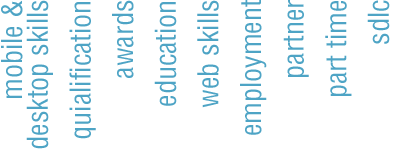
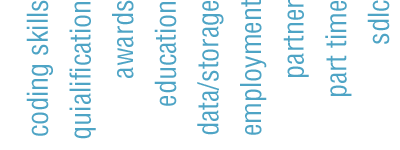
Update Website and Analytics

Changed region(s): [[0.48, 0.0, 0.57, 0.9067], [0.0, 0.16, 0.15, 1.0], [0.0, 0.0, 0.06, 0.1067]]

diff --git a/index.html b/index.html
@@ -1,10 +1,9 @@
-
 <!DOCTYPE html>
 <html>
 <head>
-    <meta charset="utf-8" />
+    <meta charset="utf-8">
     <title>Reza Qorbani - Personal Website</title>
-    <link rel="stylesheet" type="text/css" href="css/app.css">
+    <link rel="stylesheet" type="text/css" href="css/app.css?ver=2.0.0">
 </head>
 <body>
     <div>
@@ -38,19 +37,18 @@
                 <div><a title="Qualification"></a></div>
                 <div>
                     <p>
-                        Professional software developer and solution 
-                        designer in managing full software life-cycle
-                        with more than 10 years experience.
+                        More than a decade of engineering experience in developing 
+                        Mobile App, SaaS and PaaS solutions for multiple software companies.
                     </p>
                     <p>
-                        Well-developed communication & organization
-                        skills / Successfull and experienced working 
-                        in team environment as well as independently.
+                        Well-developed communication &amp; organization
+                        skills / Successful and experienced managing 
+                        engineering team and apply scrum processes.
                     </p>
                     <p>
-                        Proficiency in enterprise .Net-based projects 
-                        Excellent decision-making, analytical and 
-                        problem-solving Skills.
+                        Extensive experience in architecting, designing and developing 
+                        enterprise-grade software solutions for web, desktop, and mobile 
+                        with scalability and user experience in mind.
                     </p>
                 </div>
             </section>
@@ -59,11 +57,11 @@
                 <div>
                     <div>Good Average Skilled</div>
                     <ul>
-                        <li>Agile / Scrum           <span class="s6"></span></li>
-                        <li>UI / UX Architecure     <span class="s6"></span></li>
-                        <li>SOA + EDA               <span class="s5"></span></li>
-                        <li>CVCS: TFS               <span class="s6"></span></li>
-                        <li>DVCS: Git / Mercurial   <span class="s5"></span></li>
+                        <li>Scrum / Kanban          <span class="s6"></span></li>
+                        <li>Atlassian Suite         <span class="s6"></span></li>
+                        <li>DVCS: Git / Mercurial   <span class="s6"></span></li>
+                        <li>CVCS: TFS               <span class="s5"></span></li>
+                        <li>Cloud: AWS / Google     <span class="s6"></span></li>
                     </ul>
                 </div>
             </section>
@@ -78,19 +76,19 @@
                     <p><span>1993</span>Awarded for Telephone Program in Kharazmi</p>
                 </div>
             </section>
-            <section id="native">
-                <div><a title="native"></a></div>
+            <section id="coding">
+                <div><a title="coding"></a></div>
                 <div>
                     <div>Good Average Skilled</div>
                     <ul>
-                        <li>C# / WPF / Win Form     <span class="s6"></span></li>
-                        <li>Silverlight / RIA / WP7 <span class="s6"></span></li>
+                        <li>JavaScript / Node.JS    <span class="s6"></span></li>
+                        <li>HTML5 / CSS3 / SPA      <span class="s6"></span></li>
+                        <li>Go / Lua / Bash         <span class="s5"></span></li>
+                        <li>Cordova / Ionic         <span class="s5"></span></li>
+                        <li>Angular / Knockout      <span class="s6"></span></li>
+                        <li>Swift / Android         <span class="s4"></span></li>
+                        <li>C# / WPF / Silverlight  <span class="s6"></span></li>
                         <li>WF / WCF / Web API      <span class="s5"></span></li>
-                        <li>LINQ / EF / PLINQO      <span class="s6"></span></li>
-                        <li>SQL Server / SSDT       <span class="s5"></span></li>
-                        <li>.Net CF / CE            <span class="s6"></span></li>
-                        <li>Threading / TPL         <span class="s4"></span></li>
-                        <li>PhoneGap / Mono         <span class="s4"></span></li>
                     </ul>
                 </div>
             </section>
@@ -100,67 +98,75 @@
                     <h4>1999 - 2003</h4>
                     <h3>Computer Software Engineer</h3><p>Bachelor of Science</p>
                     <p>
-                        Dept. Of Computer Enginierring<br />
+                        Dept. Of Computer Engineering<br>
                         Sheikh Bahayie University, Iran
                     </p>
                     <h6>Thesis Title:</h6><p>Virtual Scientific Group Website<span>Oct. 2003</span></p>
                 </div>
             </section>
-            <section id="web">
-                <div><a title="web"></a></div>
+            <section id="data">
+                <div><a title="data"></a></div>
                 <div>
                     <div>Good Average Skilled</div>
                     <ul>
-                        <li>HTML5 / CSS3            <span class="s6"></span></li>
-                        <li>JavaScript / NodeJS     <span class="s5"></span></li>
-                        <li>jQuery: UI / Mobile     <span class="s5"></span></li>
-                        <li>ASP.Net Web Forms       <span class="s6"></span></li>
-                        <li>ASP.Net MVC / Razor     <span class="s4"></span></li>
-                        <li>PHP / MySQL / WP        <span class="s3"></span></li>
+                        <li>Hadoop / Hive / Spark   <span class="s4"></span></li>
+                        <li>Couchbase / Redis       <span class="s6"></span></li>
+                        <li>Aerospike / MongoDB     <span class="s5"></span></li>
+                        <li>SQL Server / MySQL      <span class="s5"></span></li>
+                        <li>SQLite / LevelDB        <span class="s5"></span></li>
+                        <li>Graphite / InfluxDB     <span class="s4"></span></li>
                     </ul>
                 </div>
             </section>
         </article>
-        
         <article id="viewHistory" data-bind="iToggle: 'History'" class="InActive">
             <section id="employment">
                 <div><a title="Employment"></a></div>
                 <div>
                     <ul>
                         <li>
+                            <h4>2013 - <span>Present</span></h4>
+                            <h2>VP of Engineering<span>BlueCava, Inc.</span></h2>
+                            <p>
+                                Managing Core, Data, and QA engineering teams  <br>
+                                Enhance architecture to billions of impressions/day<br>
+                                Build Realtime Bidding infrastructure at US scale<br> 
+                            </p>
+                        </li>
+                        <li>
                             <h4>2011 - 2013</h4>
                             <h2>QA Lead Manager<span>MindFireInc</span></h2>
                             <p>
-                                Automated Build, Deployment and Versioning <br />
-                                Develop Automated Testing Markup Language <br />
-                                Test Visual Designer / UI/UX Design Consultation <br /> 
+                                Build, Deployment and Release Management <br>
+                                Develop Automated Testing Markup Language <br>
+                                Test Visual Designer / UI/UX Design Consultation <br> 
                             </p>
                         </li>
                         <li>
                             <h4>2007 - 2011</h4>
                             <h2>Sr. Software Engineer<span>Tele Express Business Sys., Inc.</span></h2>
                             <p>
-                                Telephony Integration with CRM and ERP Systems <br />
-                                Design and Develop Intractive Voice Response <br />
-                                Custom Integration with IP-Based Cameras <br />
+                                Telephony Integration with CRM and ERP Systems <br>
+                                Design and Develop Interactive Voice Response <br>
+                                Custom Integration with IP-Based Cameras <br>
                             </p>
                         </li>
                         <li>
                             <h4>2005 - 2007</h4>
                             <h2>R&amp;D Manager<span>Namaad Iran</span></h2>
                             <p>
-                                Research and Develop new features for company's <br />
-                                Main product line such as Visual Report Designer, <br />
-                                Telephony Integration and 3rd Party components <br />
+                                Research and Develop new features for company's <br>
+                                Main product line such as Visual Report Designer, <br>
+                                Telephony Integration and 3rd Party components <br>
                             </p>
                         </li>
                         <li>
                             <h4>2003 - 2005</h4>
                             <h2>Project Manager<span>CarrieX FZCO</span></h2>
                             <p>
-                                Design and Develop CarrieCall VoIP Soft-Phone <br />
-                                Rate Comparison Tool for Carrier's Usage Rates <br />
-                                Website Design and Manage Hostings <br />
+                                Design and Develop CarrieCall VoIP Soft-Phone <br>
+                                Rate Comparison Tool for Carrier's Usage Rates <br>
+                                Website Design and Manage Hosting <br>
                             </p>
                         </li>
                     </ul>
@@ -171,21 +177,30 @@
                 <div>
                     <ul>
                         <li>
+                            <h4>2012 - <span>Present</span></h4>
+                            <h2>Co-Founder / CTO<span>Who Is Who, Inc.</span></h2>
+                            <p>
+                                Enterprise listing for medical professionals <br>
+                                Scheduling platform and patient management <br>
+                                Cloud infrastructure with Mobile App development <br>
+                            </p>
+                        </li>
+                        <li>
                             <h4>2005 - <span>Present</span></h4>
                             <h2>Owner / Sole Partnership<span>IT Originator</span></h2>
                             <p>
-                                Custom Programing for Compact Handheld Devices <br />
-                                Mobile Web and Native App Development for <br />
-                                Windows Phone, iPhone, and Android <br />
+                                Custom Programing for Compact Handheld Devices <br>
+                                Mobile Web and Native App Development for <br>
+                                Windows Phone, iPhone, and Android <br>
                             </p>
                         </li>
                         <li>
                             <h4>2009 - 2011</h4>
                             <h2>Chief Technology Officer<span>IQ Blend, Inc.</span></h2>
                             <p>
-                                Mobile & Web-based Patient Management System <br />
-                                Implement Secure RDP Connection for Doctors <br />
-                                Develop Web-based Portal for Sales Management <br />
+                                Mobile &amp; Web-based Patient Management System <br>
+                                Implement Secure RDP Connection for Doctors <br>
+                                Develop Web-based Portal for Sales Management <br>
                             </p>
                         </li>
                     </ul>
@@ -196,38 +211,38 @@
                 <div>
                     <ul>
                         <li>
-                            <h4>2009 - 2013</h4>
+                            <h4>2009 - <span>Present</span></h4>
                             <h2>Chief Technology Officer<span>Orglow, Inc.</span></h2>
                             <p>
-                                Design, Architect and Develop <br />
-                                Document Management System (SaaS) <br />
-                                Managing Team of outsourced developers <br />
+                                Design, Architect and Develop <br>
+                                Document Management System (SaaS) <br>
+                                Managing Team of outsourced developers <br>
                             </p>
                         </li>
                         <li>
                             <h4>2008 - 2010</h4>
                             <h2>Software Consultant<span>Innovation Solutions, Inc.</span></h2>
                             <p>
-                                FatJam Music File Collaboration Client Application <br />
-                                Everest ERP integration with Yahoo and Amazon <br />
-                                Software design and development consulting <br />
+                                FatJam Music File Collaboration Client Application <br>
+                                Everest ERP integration with Yahoo and Amazon <br>
+                                Software design and development consulting <br>
                             </p>
                         </li>
                         <li>
                             <h4>2000 - 2003</h4>
                             <h2>Software Engineer<span>Sima Computer</span></h2>
                             <p>
-                                Extending Microsoft Windows Language for Farsi <br />
-                                Develop Utility for Tweaking Windows Settings <br />
-                                Custom Application Development <br />
+                                Extending Microsoft Windows Language for Farsi <br>
+                                Develop Utility for Tweaking Windows Settings <br>
+                                Custom Application Development <br>
                             </p>
                         </li>
                         <li>
                             <h4>1995 - 1999</h4>
                             <h2>Software Engineer<span>Array Computer</span></h2>
                             <p>
-                                Custom Font-Maker Tool for Enabling Farsi in DOS <br />
-                                Develop Custom Application for Patient Visits <br />
+                                Custom Font-Maker Tool for Enabling Farsi in DOS <br>
+                                Develop Custom Application for Patient Visits <br>
                             </p>
                         </li>
                     </ul>
@@ -239,9 +254,7 @@
                 Connect
             </section>
         </article>
-        
     </div>
-    <script type="text/javascript" src="js/app.js"></script>
+    <script type="text/javascript" src="js/app.js?ver=2.0.0"></script>
 </body>
-
 </html>

diff --git a/css/app.css b/css/app.css
@@ -26,7 +26,7 @@ body > div
     margin: auto;
 }
 .Active { opacity: 1; z-index: 9999; }
-.InActive { opacity: 0; z-index: 0; }
+.InActive { opacity: 0; z-index: 0; display: none; }
 /*--------------------------------------------*/
 /*  Navigation
 /*--------------------------------------------*/
@@ -80,9 +80,9 @@ article > section > div:last-child { margin-left: 60px; }
 #qualification > div:first-child > a { width: 31px; height: 140px; background-position: -66px 0; }
 #sdlc > div:first-child > a { width: 31px; height: 45px; background-position: -365px 0; }
 #awards > div:first-child > a { width: 31px; height: 79px; background-position: -110px 0; }
-#native > div:first-child > a { width: 58px; height: 150px; background-position: 0 0; margin-left: -40px; }
+#coding > div:first-child > a { width: 58px; height: 138px; background-position: 0 0; margin-left: -40px; }
 #education > div:first-child > a { width: 31px; height: 107px; background-position: -152px 0; }
-#web > div:first-child > a { width: 31px; height: 108px; background-position: -195px 0; }
+#data > div:first-child > a { width: 31px; height: 134px; background-position: -195px 0; }
 #employment > div:first-child > a { width: 31px; height: 136px; background-position: -237px 0; }
 #parttime > div:first-child > a { width: 31px; height: 97px; background-position: -321px 0; }
 #partner > div:first-child > a { width: 31px; height: 78px; background-position: -279px 0; }
@@ -125,7 +125,7 @@ article > section > div:last-child { margin-left: 60px; }
 #awards p:first-child { margin-top: 10px; }
 #awards span { display: block; font-size: 1.1em; font-weight: bold; color: #a2a2a2; }
 
-#native { height: 365px; top: 290px; }
+#coding { height: 365px; top: 290px; }
 
 #education { height: 290px; top: 700px; }
 #education h3 { font-size: 1.1em; font-weight: bold; }
@@ -134,7 +134,7 @@ article > section > div:last-child { margin-left: 60px; }
 #education p { margin-bottom: 20px; line-height: 1.1em; }
 #education p > span { display: block; }
 
-#web { height: 290px;top: 700px; }
+#data { height: 290px;top: 700px; }
 
 /*--------------------------------------------*/
 /*  History
@@ -151,4 +151,3 @@ article > section > div:last-child { margin-left: 60px; }
 /*--------------------------------------------*/
 /*  connect
 /*--------------------------------------------*/
-

diff --git a/js/app.js b/js/app.js
@@ -1627,12 +1627,10 @@ $(document).ready(function () {
     $(document).bind('touchmove', function (e) { e.preventDefault(); });
 });
 
-var _gaq = _gaq || [];
-_gaq.push(['_setAccount', 'UA-215355-2']);
-_gaq.push(['_trackPageview']);
-
-(function () {
-    var ga = document.createElement('script'); ga.type = 'text/javascript'; ga.async = true;
-    ga.src = ('https:' == document.location.protocol ? 'https://ssl' : 'http://www') + '.google-analytics.com/ga.js';
-    var s = document.getElementsByTagName('script')[0]; s.parentNode.insertBefore(ga, s);
-})();
+(function(i,s,o,g,r,a,m){i['GoogleAnalyticsObject']=r;i[r]=i[r]||function(){
+(i[r].q=i[r].q||[]).push(arguments)},i[r].l=1*new Date();a=s.createElement(o),
+m=s.getElementsByTagName(o)[0];a.async=1;a.src=g;m.parentNode.insertBefore(a,m)
+})(window,document,'script','//www.google-analytics.com/analytics.js','ga');
+ga('create', 'UA-215355-2', 'qorbani.com');
+ga('require', 'displayfeatures');
+ga('send', 'pageview');

diff --git a/README.md b/README.md
@@ -1,0 +1,4 @@
+qorbani.github.com
+==================
+
+My Personal Website
